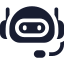
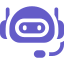
improve ui

diff --git a/flutter_chat_gpt/lib/widgets/drop_downmenu.dart b/flutter_chat_gpt/lib/widgets/drop_downmenu.dart
@@ -1,5 +1,7 @@
 import 'package:flutter/material.dart';
 import 'package:flutter_chat_gpt/constants/constant.dart';
+import 'package:flutter_chat_gpt/services/api_services.dart';
+import 'package:flutter_chat_gpt/widgets/text_widget.dart';
 
 class ModelsDropDownMenu extends StatefulWidget {
   const ModelsDropDownMenu({super.key});
@@ -9,19 +11,41 @@ class ModelsDropDownMenu extends StatefulWidget {
 }
 
 class _ModelsDropDownMenuState extends State<ModelsDropDownMenu> {
-  String currentModel = "Model Test 1";
+  String currentModel = "text-davinci-003";
   @override
   Widget build(BuildContext context) {
-    return DropdownButton(
-      dropdownColor: cardItemBKColor,
-      iconEnabledColor: scaffoldBKColor,
-      items: getModelItems,
-      value: currentModel,
-      onChanged: (value) {
-        setState(() {
-          currentModel = value.toString();
+    return FutureBuilder(
+        future: ApiServices.getModels(),
+        builder: (context, snapshot) {
+          if (snapshot.hasError) {
+            return Center(
+              child: TextWidget(label: snapshot.error.toString()),
+            );
+          }
+          return snapshot.data == null || snapshot.data!.isEmpty
+              ? const SizedBox.shrink()
+              : FittedBox(
+                  child: DropdownButton(
+                    dropdownColor: cardItemBKColor,
+                    iconEnabledColor: cardItemBKColor2,
+                    items: List<DropdownMenuItem<String>>.generate(
+                      snapshot.data!.length,
+                      (index) => DropdownMenuItem(
+                        value: snapshot.data![index].id,
+                        child: TextWidget(
+                          label: snapshot.data![index].id,
+                          fontSize: 15,
+                        ),
+                      ),
+                    ),
+                    value: currentModel,
+                    onChanged: (value) {
+                      setState(() {
+                        currentModel = value.toString();
+                      });
+                    },
+                  ),
+                );
         });
-      },
-    );
   }
 }

diff --git a/flutter_chat_gpt/lib/constants/constant.dart b/flutter_chat_gpt/lib/constants/constant.dart
@@ -1,12 +1,13 @@
 import 'package:flutter/material.dart';
 import 'package:flutter_chat_gpt/widgets/text_widget.dart';
 
-Color scaffoldBKColor = const Color(0xFFFAF8F1);
-Color cardItemBKColor = const Color(0xFFC3C3C3);
-Color cardItemBKColor2 = const Color(0xFFDBDBDB);
+Color scaffoldBKColor = const Color(0xFF1c202a);
+Color appBarBKColor = const Color(0xFF272c39);
+Color cardItemBKColor = const Color(0xFF242935);
+Color cardItemBKColor2 = const Color(0xFF7269e3);
 Color cardTextColor = const Color(0xFFFFFBEB);
-Color cardTextInColor = const Color(0xFF282828);
-
+Color cardTextInColor = const Color(0xFFEFEFEF);
+/* 
 List<String> listOfModels = [
   "Model Test 1",
   "Model Test 2",
@@ -32,7 +33,7 @@ List<DropdownMenuItem<String>>? get getModelItems {
     ),
   );
   return modelItems;
-}
+} */
 
 final chatMessages = [
   {

diff --git a/flutter_chat_gpt/lib/screens/splash_screen.dart b/flutter_chat_gpt/lib/screens/splash_screen.dart
@@ -15,14 +15,17 @@ class _SplashScreenState extends State<SplashScreen> {
   @override
   Widget build(BuildContext context) {
     return Scaffold(
-      backgroundColor: cardItemBKColor,
+      backgroundColor: scaffoldBKColor,
       body: Center(
         child: Container(
             decoration: BoxDecoration(
-                color: scaffoldBKColor,
-                borderRadius: BorderRadius.circular(100)),
+                color: appBarBKColor, borderRadius: BorderRadius.circular(100)),
             padding: const EdgeInsets.all(25),
-            child: Image.asset(AssetsManager.chatBotImage)),
+            child: Image.asset(
+              AssetsManager.chatBotImage1,
+              width: 128,
+              fit: BoxFit.contain,
+            )),
       ),
     );
   }

diff --git a/flutter_chat_gpt/lib/main.dart b/flutter_chat_gpt/lib/main.dart
@@ -19,9 +19,9 @@ class MyApp extends StatelessWidget {
       theme: ThemeData(
           scaffoldBackgroundColor: scaffoldBKColor,
           appBarTheme: AppBarTheme(
-              color: cardTextColor,
+              color: appBarBKColor,
               systemOverlayStyle: SystemUiOverlayStyle(
-                statusBarColor: cardTextColor, // <-- SEE HERE
+                statusBarColor: appBarBKColor, // <-- SEE HERE
                 statusBarIconBrightness:
                     Brightness.dark, //<-- For Android SEE HERE (dark icons)
                 statusBarBrightness:

diff --git a/flutter_chat_gpt/lib/screens/chat_home_screen.dart b/flutter_chat_gpt/lib/screens/chat_home_screen.dart
@@ -31,7 +31,7 @@ class _ChatHomeState extends State<ChatHome> {
   @override
   Widget build(BuildContext context) {
     return Scaffold(
-      backgroundColor: cardTextColor,
+      backgroundColor: scaffoldBKColor,
       appBar: AppBar(
         leading: Padding(
           padding: const EdgeInsets.all(10),

diff --git a/flutter_chat_gpt/lib/constants/api_constant.dart b/flutter_chat_gpt/lib/constants/api_constant.dart
@@ -1,2 +1,2 @@
 String baseUrl = "https://api.openai.com/v1";
-String apiKey = "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";
+String apiKey = "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";
